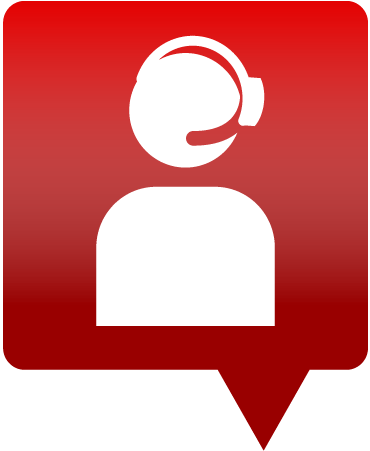
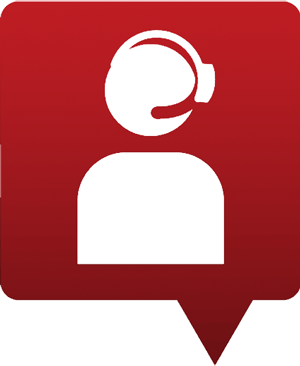
tweak welcome page -- make narrower and update agent and sign-up images
git-svn-id: http://cubeless.dev.sabre.com:18080/svn/cubeless/communities/agentstream@19284 e05bbbe3-11a3-40ec-a18c-f20a9e1084ec

diff --git a/app/stylesheets/themes/agentstream/naked.scss b/app/stylesheets/themes/agentstream/naked.scss
@@ -8,7 +8,7 @@
   div#welcome-page{
     background-color: #FFF;
     border: 6px solid #DDD;
-    
+    margin-left: 60px;
     h2 {
      margin-top: 10px; 
     }
@@ -18,40 +18,38 @@
     background-color: #DDD; 
     height: 50px;
     .text-logo {
-      padding: 7px 20px;
+      padding: 7px 0px;
     }
     #login {
       float: right;
-      padding: 2px 20px;
-      .button {
-        padding: 8px;
-      }  
+      padding: 8px 10px;
     }
   }  
 
   div#welcome-main {
-    margin: 20px;
-    height: 620px;
+    margin: 20px 50px;
+    height: 580px;
     div.left {
-      margin-left: 30px;
+      margin-left: 0px;
       float: left;
     }  
     div.right{
       float: right;
-      width: 490px;
+      width: 390px;
       h1 {
-        margin-bottom: -0px;
+        margin-bottom: -10px;
       }  
       h1 p {
         color: #000;
         text-align: right;
         line-height: 0.9em;
         font-size: 2.6em;
+        letter-spacing:-2px;
       }
       p {
         text-align: right;
         line-height: 1.2em;
-        font-size: 1.6em;
+        font-size: 1.5em;
       }
       a.sing-up {
         float:right;
@@ -63,14 +61,14 @@
       text-align: center;
       p {
         padding-left: 5px;
-        font-size: 1.5em;
+        font-size: 1.1em;
         margin-bottom: 0px;
       }  
       div.bottom-left{
         float: left;
       }
       div.bottom-center{
-        p {margin-left: 303px;}
+        p {margin-left: 240px;}
       }
       div.bottom-right{
         float:right;
@@ -93,9 +91,10 @@
     div.footer-bottom {
       margin-top: 10px;
       p {
-        margin: 0 80px;
+        margin: 10px 80px;
         font-style: italic;
-        font-size: 0.8em;
+        font-size: 0.7em;
+        line-height: 1.2em;
       }
     }
     div.footer-right {

diff --git a/app/stylesheets/themes/agentstream/layout.scss b/app/stylesheets/themes/agentstream/layout.scss
@@ -6,8 +6,10 @@ $ninesixty-grid-width: 960px;
 
 #page {
   @include grid-container;
-	
+  #welcome-page {@include grid-width(14);}
 }
+
+
 
 	#header, #main, .alert, #footer, .primary, .aside, #logo, .global_nav, .utility, .stats  { @include grid-unit-base;}
 	
